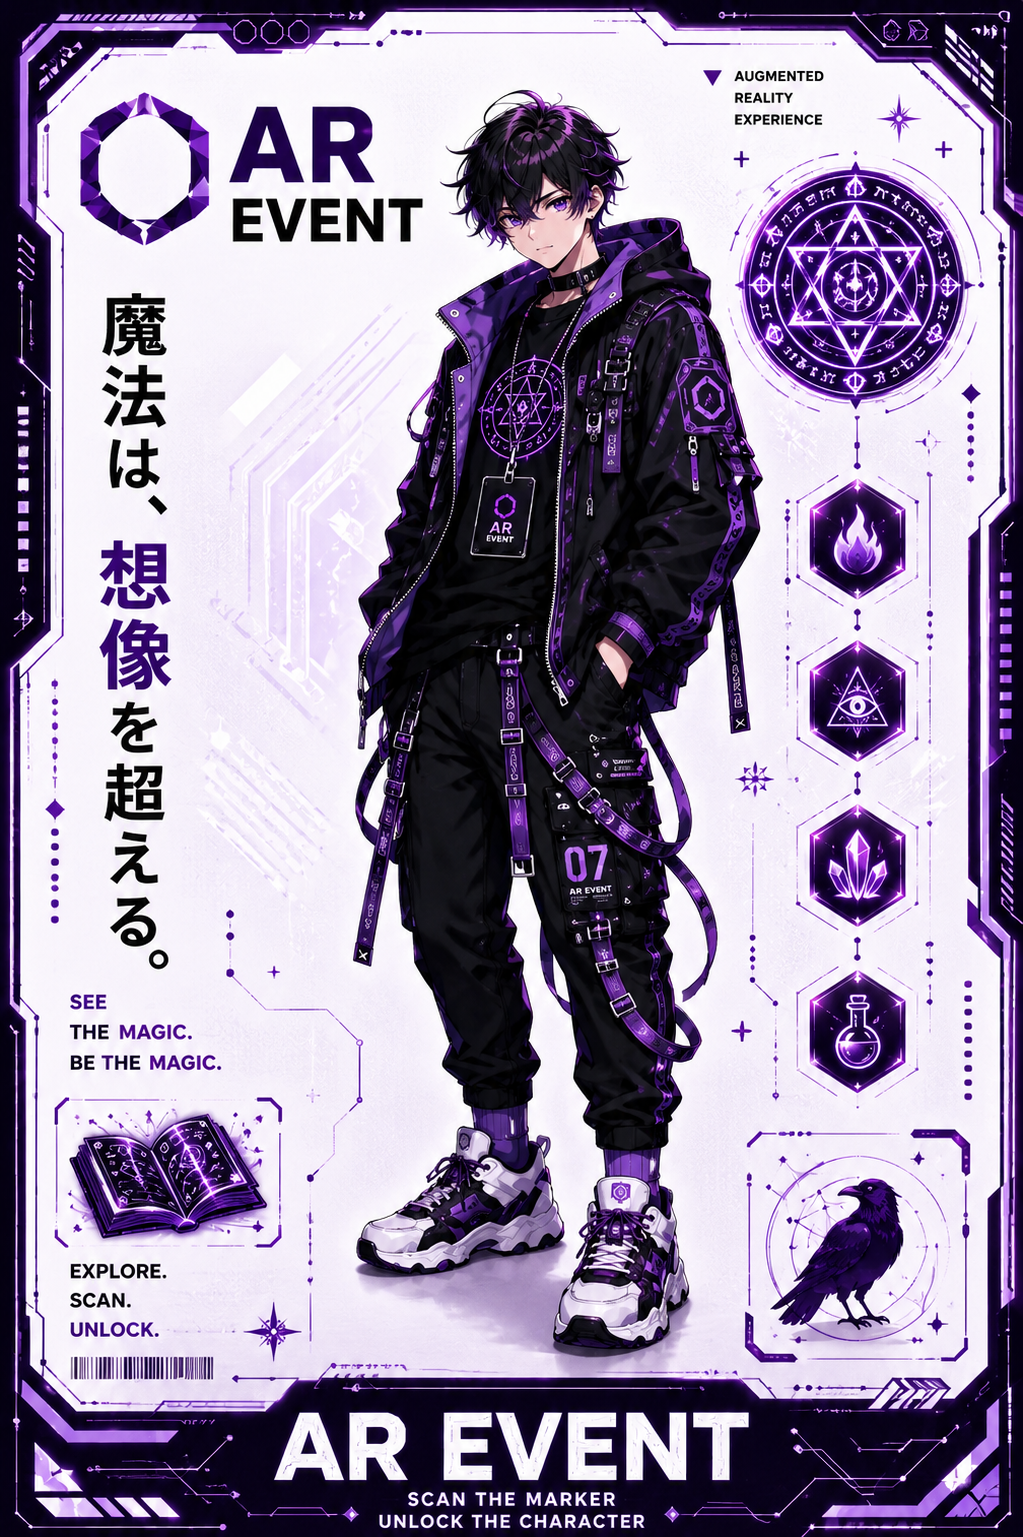
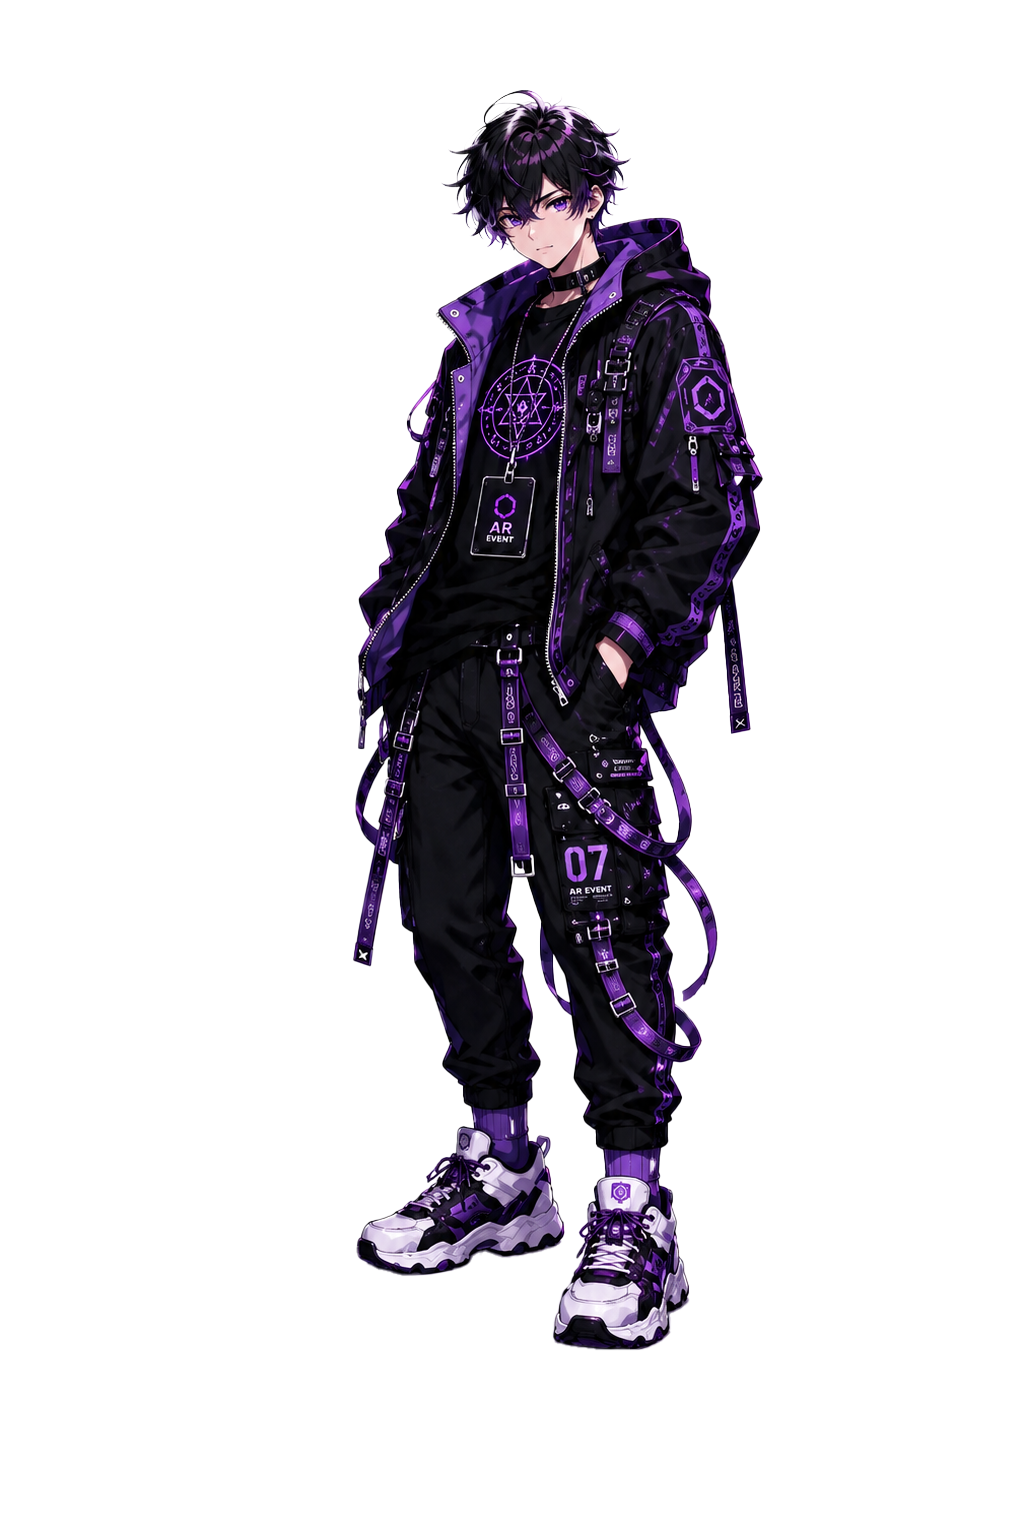
send

diff --git a/css/character-list.css b/css/character-list.css
@@ -53,9 +53,18 @@ body {
 }
 
 .character-image-wrap img {
-    width: 82%;
-    height: 82%;
+    width: 92%;
+    height: 92%;
     object-fit: contain;
+    object-position: center bottom;
+    transition:
+        filter .2s ease,
+        opacity .2s ease;
+}
+
+.character-card:not(.collected) .character-image-wrap img {
+    filter: grayscale(1) brightness(0);
+    opacity: .28;
 }
 
 .collected-badge {

diff --git a/js/character-list.js b/js/character-list.js
@@ -79,7 +79,7 @@ function renderCharacterGrid() {
             </div>
 
             <div class="character-status">
-                ${isCollected ? "獲得済み" : "利用できます"}
+                ${isCollected ? "獲得済み" : "未獲得"}
             </div>
 
             ${isCollected ? `
